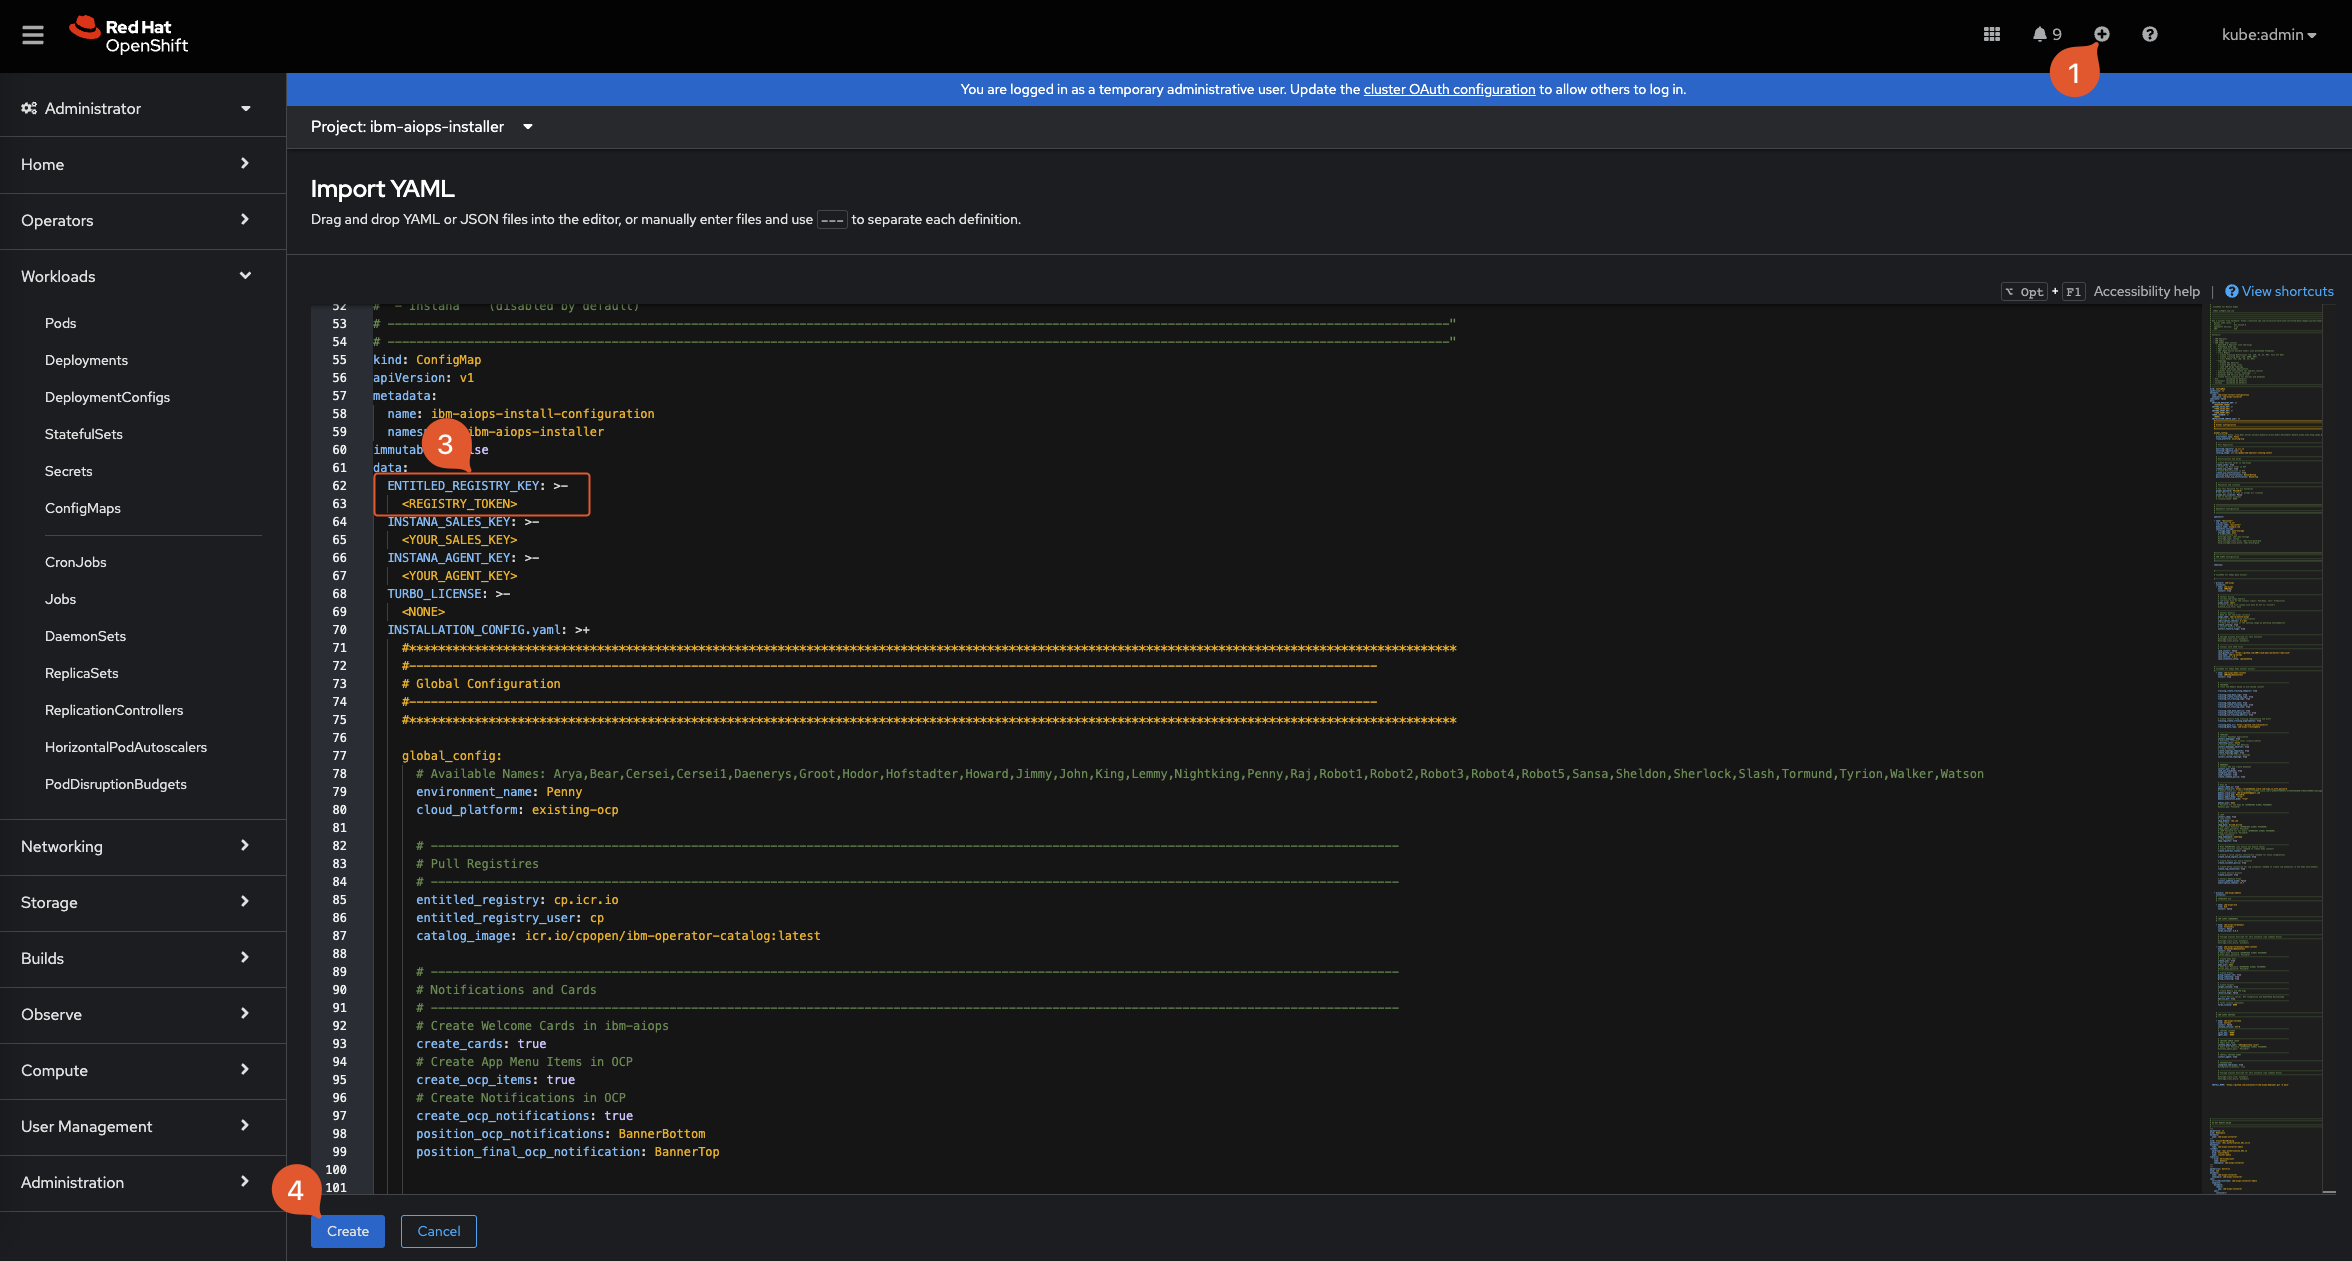
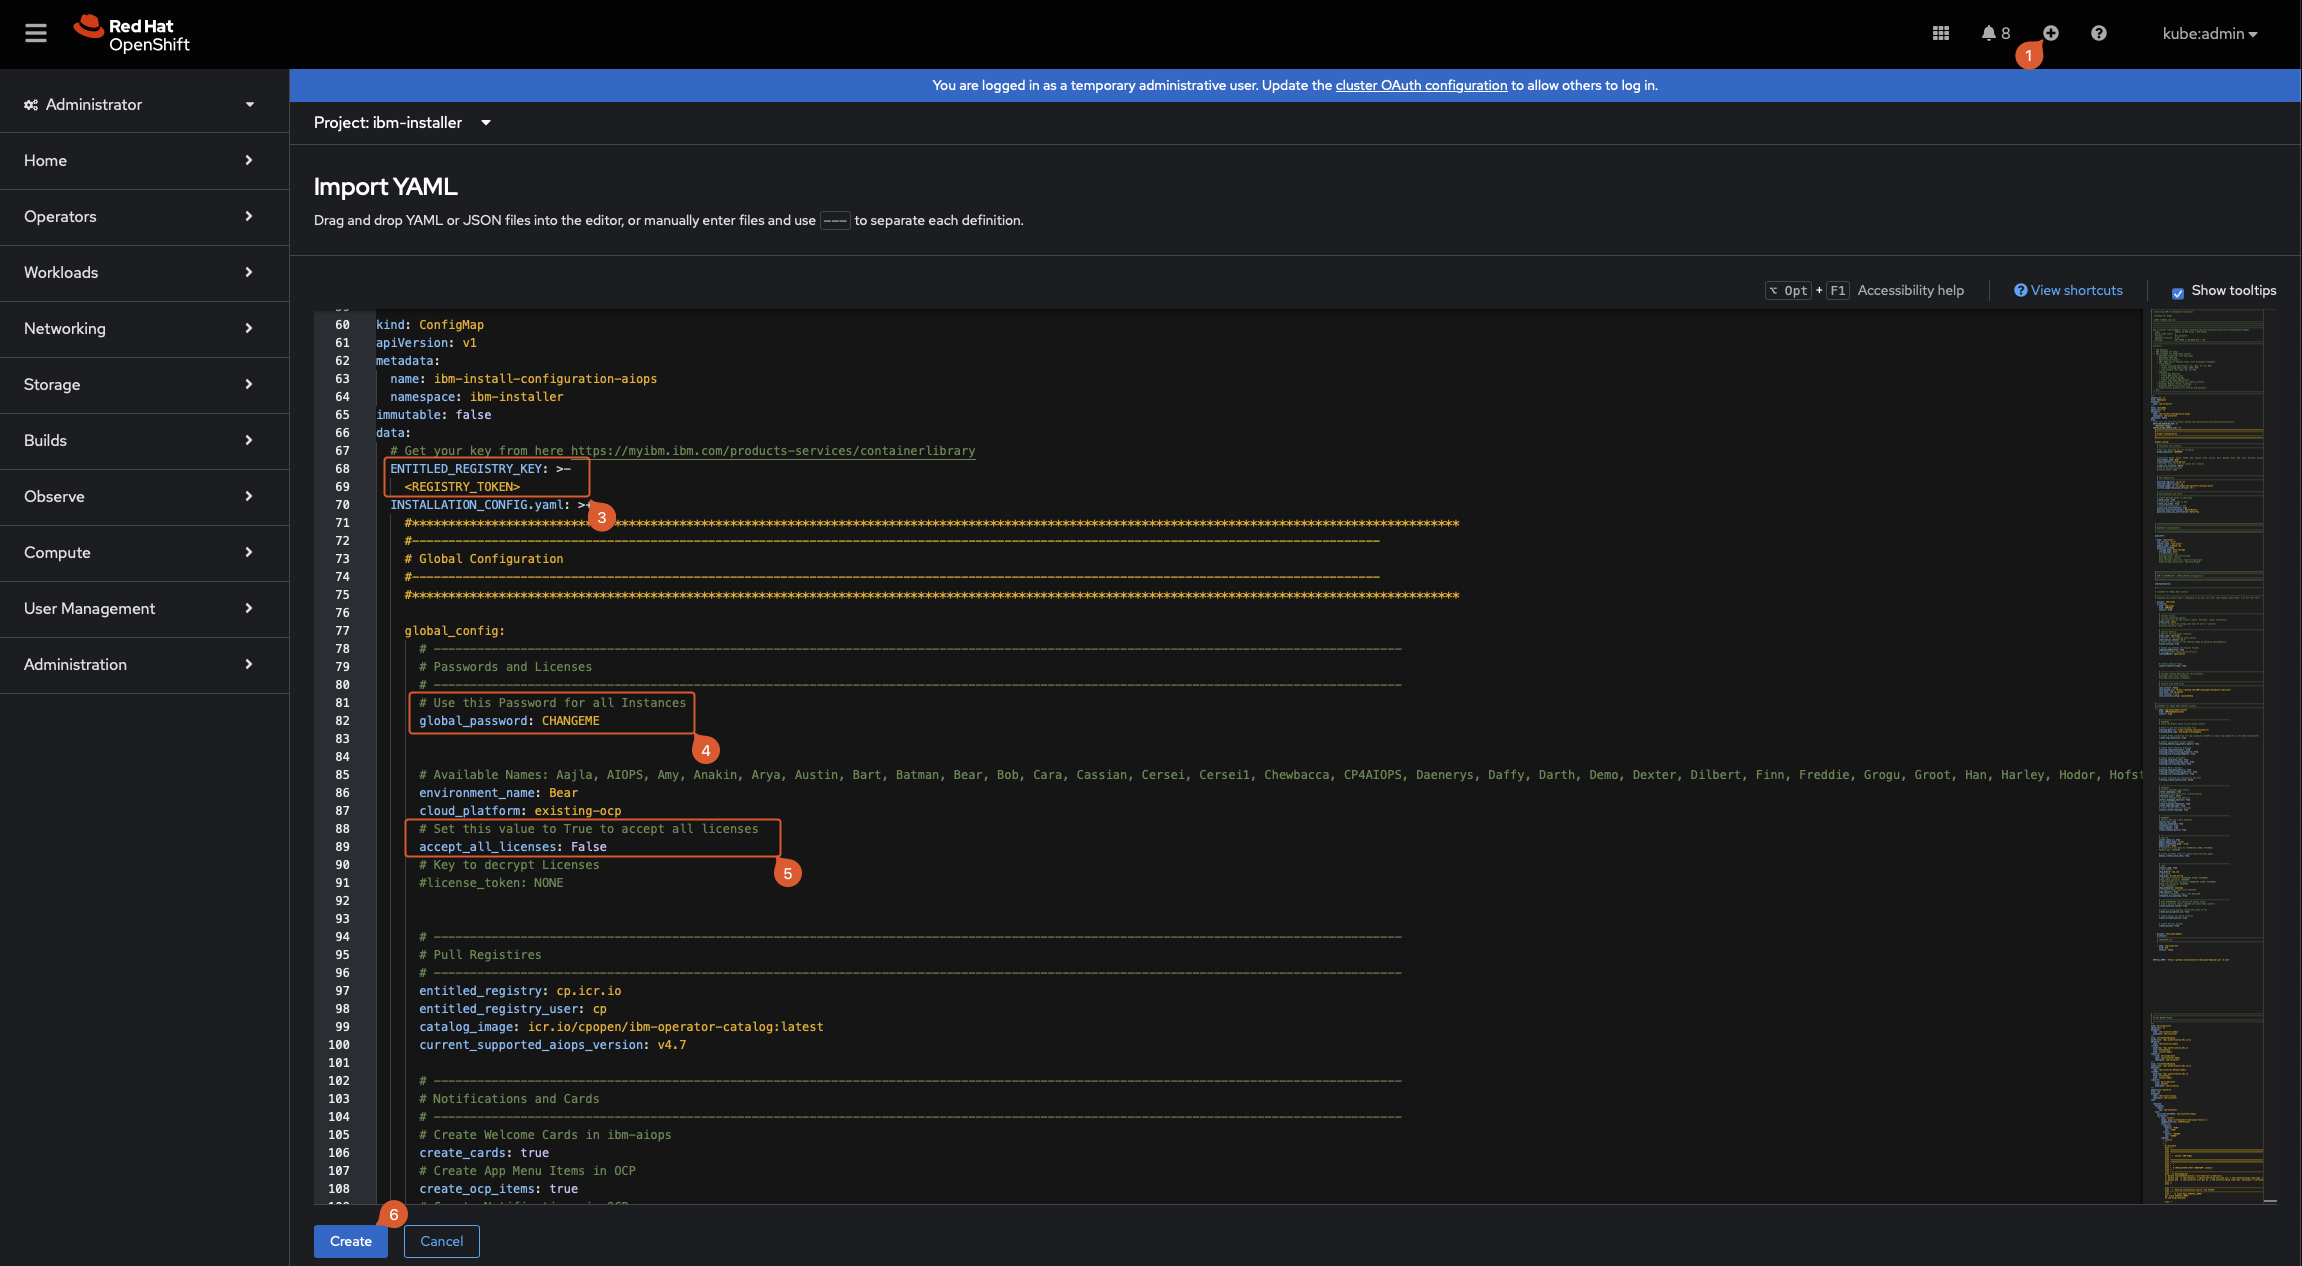
README

diff --git a/README.md b/README.md
@@ -261,7 +261,7 @@ Here is a quick video that walks you through the installation process
 
 
 <details>
-<summary>📦 Contents</summary>
+<summary>📦 What will be installed</summary>
 
 This installation contains:
 
@@ -302,17 +302,17 @@ This installation contains:
 
 
 <details>
-<summary>🚀 **Installation Instructions** </summary>
+<summary>🚀 Installation Instructions </summary>
 
 
 ![K8s CNI](./doc/pics/install01.png)
 
-1. In the the OCP Web UI click on the `+` sign in the right upper corner
+1. In the the OpenShift Web UI click on the `+` sign in the right upper corner
 1. Copy and paste the content from [this file](./Quick_Install/00_INSTALL_IBM_AIOPS.yaml)
 3. Replace `<REGISTRY_TOKEN>` at the top of the file with your entitlement key from step 1.1.3 (line 69 - the Entitlement key from https://myibm.ibm.com)
 3. Replace the default Password `global_password: CHANGEME` with a Password of your choice (line 82)
 3. Accept the license by setting `accept_all_licenses` to `True` (line 89)
-3. Click `Save`
+3. Click `Create`
 
 > #### ❗ If you get a ClusterRoleBinding already exists, just ignore it
 > #### ❗ If you get a warning (Orange or Red Bar on top) please [re-run the installer Pod](#re-run-the-installer) until you are all green.
@@ -324,26 +324,6 @@ This installation contains:
 
 </details>
 
-
-<details>
-<summary>✅ Post Install</summary>
-
-1. In the `IBM AIOps` "Hamburger" Menu select `Operate`/`AI Model Management`
-2. Check that the Training are displayed as follows
-
-![install](./doc/pics/check02.png)
-
-### ❗ If any of the trainings (particularely Temporal grouping or Metric anomaly detection) displays and error, please re-run the training. This is often due to a limit of resources at install time. 
-
-<div style="page-break-after: always;"></div>
-
-</details>
-
-
-
-
-
-</details>
 
 
 <details>
@@ -373,6 +353,20 @@ This installation contains:
 	And you get this message in the logs
 
 	![install](./doc/pics/install05.png)
+
+
+</details>
+
+
+<details>
+<summary>🚀 Connecting for the first time</summary>
+
+
+![install](./doc/pics/notification01.png)
+
+1. In the top green Notification bar clicking on the link to open the DemoUI
+2. Login with the provided Password
+3. You will find Links and Passwords for all installed components here
 
 
 </details>
@@ -443,6 +437,22 @@ Check that the green notification bar is displayed as follows
 
 
 </details>
+
+<details>
+
+<summary>✅ Post Install</summary>
+
+1. In the `IBM AIOps` "Hamburger" Menu select `Operate`/`AI Model Management`
+2. Check that the Training are displayed as follows
+
+![install](./doc/pics/check02.png)
+
+### ❗ If any of the trainings (particularely Temporal grouping or Metric anomaly detection) displays and error, please re-run the training. This is often due to a limit of resources at install time. 
+
+<div style="page-break-after: always;"></div>
+
+</details>
+
 
 
 <details>
@@ -547,7 +557,7 @@ You can chose from the following:
 
 
 <details>
-<summary>📦 Contents</summary>
+<summary>📦 What will be installed</summary>
 
 This installation contains:
 
@@ -572,17 +582,15 @@ This installation contains:
 
 
 <details>
-<summary>🚀 **Installation Instructions** </summary>
+<summary>🚀 Installation Instructions </summary>
 
 
-![K8s CNI](./doc/pics/install01.png)
-
-1. In the the OCP Web UI click on the `+` sign in the right upper corner
+1. In the the OpenShift Web UI click on the `+` sign in the right upper corner
 1. Copy and paste the content from [this file](./Quick_Install/30_INSTALL_IBM_CONCERT.yaml)
-3. Replace `<REGISTRY_TOKEN>` at the top of the file with your entitlement key from step 1.1.3 (line 69 - the Entitlement key from https://myibm.ibm.com)
-3. Replace the default Password `global_password: CHANGEME` with a Password of your choice (line 82)
-3. Accept the license by setting `accept_all_licenses` to `True` (line 89)
-3. Click `Save`
+3. Replace `<REGISTRY_TOKEN>` at the top of the file with your entitlement key from step 1.1.3 (line 49 - the Entitlement key from https://myibm.ibm.com)
+3. Replace the default Password `global_password: CHANGEME` with a Password of your choice (line 62)
+3. Accept the license by setting `accept_all_licenses` to `True` (line 69)
+3. Click `Create`
 
 > #### ❗ If you get a ClusterRoleBinding already exists, just ignore it
 > #### ❗ If you get a warning (Orange or Red Bar on top) please [re-run the installer Pod](#re-run-the-installer) until you are all green.
@@ -633,7 +641,7 @@ This installation contains:
 
 
 <details>
-<summary>📦 Contents</summary>
+<summary>📦 What will be installed</summary>
 
 This installation contains:
 
@@ -652,17 +660,15 @@ This installation contains:
 
 
 <details>
-<summary>🚀 **Installation Instructions** </summary>
+<summary>🚀 Installation Instructions </summary>
 
 
-![K8s CNI](./doc/pics/install01.png)
-
-1. In the the OCP Web UI click on the `+` sign in the right upper corner
+1. In the the OpenShift Web UI click on the `+` sign in the right upper corner
 1. Copy and paste the content from [this file](./Quick_Install/10_INSTALL_IBM_TURBONOMIC.yaml)
-3. Replace `<REGISTRY_TOKEN>` at the top of the file with your entitlement key from step 1.1.3 (line 69 - the Entitlement key from https://myibm.ibm.com)
-3. Replace the default Password `global_password: CHANGEME` with a Password of your choice (line 82)
-3. Accept the license by setting `accept_all_licenses` to `True` (line 89)
-3. Click `Save`
+3. Enter your Turbonomic License on line 69
+3. Replace the default Password `global_password: CHANGEME` with a Password of your choice (line 62)
+3. Accept the license by setting `accept_all_licenses` to `True` (line 69)
+3. Click `Create`
 
 > #### ❗ If you get a ClusterRoleBinding already exists, just ignore it
 > #### ❗ If you get a warning (Orange or Red Bar on top) please [re-run the installer Pod](#re-run-the-installer) until you are all green.
@@ -712,7 +718,7 @@ This installation contains:
 
 
 <details>
-<summary>📦 Contents</summary>
+<summary>📦 What will be installed</summary>
 
 This installation contains:
 
@@ -732,17 +738,15 @@ This installation contains:
 
 
 <details>
-<summary>🚀 **Installation Instructions** </summary>
+<summary>🚀 Installation Instructions </summary>
 
 
-![K8s CNI](./doc/pics/install01.png)
-
-1. In the the OCP Web UI click on the `+` sign in the right upper corner
+1. In the the OpenShift Web UI click on the `+` sign in the right upper corner
 1. Copy and paste the content from [this file](./Quick_Install/20_INSTALL_IBM_INSTANA.yaml)
-3. Replace `<REGISTRY_TOKEN>` at the top of the file with your entitlement key from step 1.1.3 (line 69 - the Entitlement key from https://myibm.ibm.com)
-3. Replace the default Password `global_password: CHANGEME` with a Password of your choice (line 82)
-3. Accept the license by setting `accept_all_licenses` to `True` (line 89)
-3. Click `Save`
+3. Enter your Turbonomic License on lines 142/143
+3. Replace the default Password `global_password: CHANGEME` with a Password of your choice (line 60)
+3. Accept the license by setting `accept_all_licenses` to `True` (line 67)
+3. Click `Create`
 
 > #### ❗ If you get a ClusterRoleBinding already exists, just ignore it
 > #### ❗ If you get a warning (Orange or Red Bar on top) please [re-run the installer Pod](#re-run-the-installer) until you are all green.
@@ -1421,7 +1425,7 @@ Inject Events to simulate the Custom Scenario.
 }
 
 ```
-         
+
 		 </details>
 
 
@@ -1464,7 +1468,7 @@ Example:
 test10,DemoMetric1,DemoGroup1,0,1;
 test11,DemoMetric2,DemoGroup2,50,25'
 ```
-         
+
 		 </details>
 
 
@@ -1508,7 +1512,7 @@ A typical Vertex (Entity)
 }
 
 ```
-         
+
 
 </details>
 
@@ -1538,7 +1542,7 @@ A typical Entry
 }
 
 ```
-         
+
 
 </details>
 
